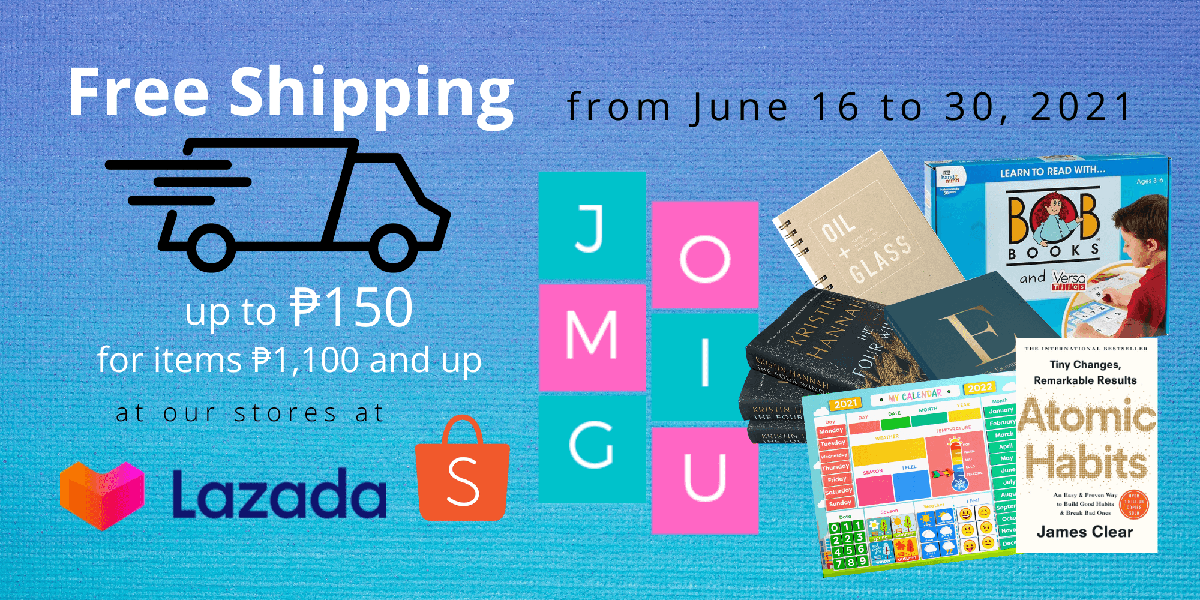
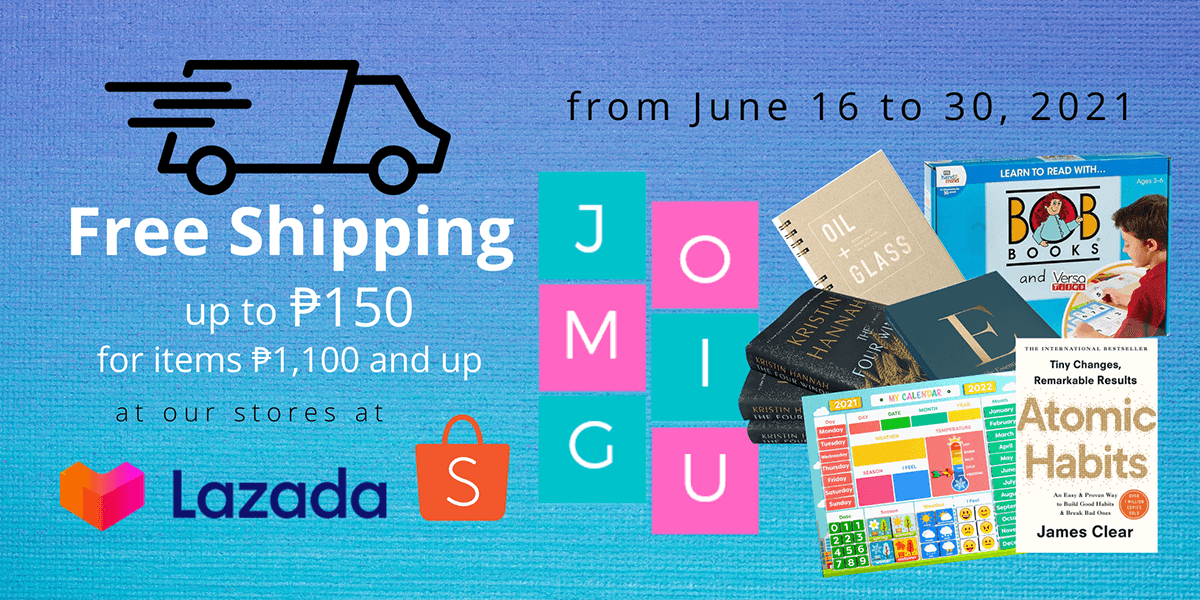
Aligned index page components' padding and margins

diff --git a/assets/css/main.scss b/assets/css/main.scss
@@ -3,9 +3,11 @@
 :root {
     --jomigu-color-1: #f6c;
     --jomigu-color-2: #0cc;
+    --jomigu-normal-text: #333;
     --jomigu-price: rgb(187, 19, 83);
     --jomigu-page-background: #ccc;
     --jomigu-card-background: #fff;
+    --jomigu-border-radius: 20px;
 }
 
 html {
@@ -30,14 +32,6 @@ html {
     background: var(--jomigu-color-2);
 }
 
-.banner, .banner-stretched {
-    width: 100%;
-}
-
-.banner-stretched {
-    height: 100%;
-}
-
 .title {
     font-family: SourceCodePro, monospace;
     color: var(--jomigu-color-1);
@@ -59,49 +53,65 @@ html {
     }
 }
 
-ul.categories {
-    padding: 18px 5px 15px;
-    text-align: center;
-    background-color: #fff;
+ul.narrow-padding {
+    padding: 0 8px;
+    margin-bottom: 5px;
+    background-color: var(--jomigu-card-background);
 
     li {
         display: inline-block;
+        padding: 0;
         list-style: none;
 
         a {
-            font-size: x-small;
-            color: #000;
+            img {
+                width: 100%;
+            }
+        }
+    }
+}
+
+ul.banners {
+    padding: 0;
+}
+
+ul.categories {
+    text-align: center;
+    padding: 25px;
+    
+    li {
+        a {
+            font-size: small;
+            color: var(--jomigu-normal-text);
 
             img {
-                width: 100px;
+                width: 100%;
             }
         }
     }
 }
 
 ul.products {
-    padding-left: 0;
-    text-align: center;
+    padding: 0 5px;
+    background-color: var(--jomigu-page-background);
 
     li {
-        display: inline-block;
-        list-style: none;
-        vertical-align: top;
-        width: 170px;
-        padding: 3px;
+        padding: 2px;
+        background-color: var(--jomigu-card-background);
+        border: 1px solid var(--jomigu-page-background);
+        border-radius: var(--jomigu-border-radius);
 
-        div {
-            padding: 2px;
-            background-color: var(--jomigu-card-background);
-        
-            a {
-                font-size: small;
-                color: #000;
-    
-                img {
-                    width: 100%;
-                }
+        a {
+            img {
+                border-top-left-radius: var(--jomigu-border-radius);
+                border-top-right-radius: var(--jomigu-border-radius);
             }
+        }
+
+        p {
+            margin: 0;
+            text-align: center;
+            color: var(--jomigu-normal-text);
         }
     }
 }

diff --git a/components/AllProducts.vue b/components/AllProducts.vue
@@ -1,21 +1,23 @@
 <template>
   <div class="container">
-    <ul class="products">
-      <li v-for="product in products" :key="product.id">
-        <div>
-          <a :href="`/products/${product.id}`">
-            <img
-              :src="require(`~/assets/images/products/${product.mainImage}`)"
-              class="category"
-            />
-            <p>{{ product.name }}</p>
-            <p>
-              <span class="price">{{ product.price }}</span>
-              <span> | </span>
-              <small>Stock: {{ product.stock }}</small>
-            </p>
-          </a>
-        </div>
+    <ul class="row products narrow-padding">
+      <li
+        v-for="product in products"
+        :key="product.id"
+        class="col-6 col-sd-4 col-md-3 col-lg-2"
+      >
+        <a :href="`/products/${product.id}`">
+          <img
+            :src="require(`~/assets/images/products/${product.mainImage}`)"
+            class="category"
+          />
+          <p class="mt-1">{{ product.name }}</p>
+          <p class="mb-2">
+            <span class="price">{{ product.price }}</span>
+            <span> | </span>
+            <small>Stock: {{ product.stock }}</small>
+          </p>
+        </a>
       </li>
     </ul>
   </div>

diff --git a/components/Banners.vue b/components/Banners.vue
@@ -1,20 +1,20 @@
 <template>
-  <div class="container mt-3">
-    <div class="row">
-      <div class="col-md-8 mb-2">
-        <img
-          src="~/assets/images/banners/featuring-free-shipping-june-2021.png"
-          class="banner"
-        />
-      </div>
-      <div class="col-md-4 mb-2">
+  <div class="container">
+    <ul class="row banners narrow-padding">
+      <li class="col-md-8">
+        <a href="#">
+          <img
+            src="~/assets/images/banners/featuring-free-shipping-june-2021.png"
+          />
+        </a>
+      </li>
+      <li class="col-md-4">
         <a href="https://s.lazada.com.ph/s.2l1kU">
           <img
             src="~/assets/images/banners/featuring-the-bible-in-52-weeks.png"
-            class="banner-stretched"
           />
         </a>
-      </div>
-    </div>
+      </li>
+    </ul>
   </div>
 </template>

diff --git a/components/Categories.vue b/components/Categories.vue
@@ -1,12 +1,9 @@
 <template>
   <div class="container">
-    <ul class="categories">
-      <li v-for="category in categories" :key="category.id">
-        <a href="#">
-          <img
-            :src="require(`~/assets/images/categories/${category.image}`)"
-            class="category"
-          />
+    <ul class="row categories narrow-padding">
+      <li v-for="category in categories" :key="category.id" class="col-4">
+        <a v-if="category.name" href="#">
+          <img :src="require(`~/assets/images/categories/${category.image}`)" />
           <p>
             {{ category.name }}
           </p>

diff --git a/pages/products/_id.vue b/pages/products/_id.vue
@@ -3,7 +3,7 @@
     <div class="product bg-white p-4">
       <p class="name">{{ name }}</p>
       <div class="row">
-        <div class="col-12">
+        <div class="col-md-6">
           <div>
             <b-carousel
               id="carousel-1"
@@ -23,9 +23,7 @@
             </b-carousel>
           </div>
         </div>
-      </div>
-      <div class="row">
-        <div class="col-12">
+        <div class="col-md-6">
           {{ description }}
         </div>
       </div>

diff --git a/components/Footer.vue b/components/Footer.vue
@@ -1,6 +1,6 @@
 <template>
   <footer>
-    <div class="container-fluid p-4 mt-4 bg-jomigu-2 text-blue">
+    <div class="container-fluid p-4 bg-jomigu-2 text-blue">
       <p class="text-center">Follow us at</p>
       <ul class="shops">
         <li v-for="shop in shops" :key="shop.id">
